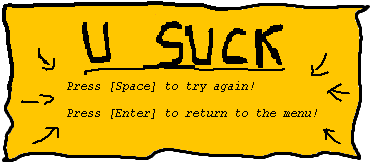
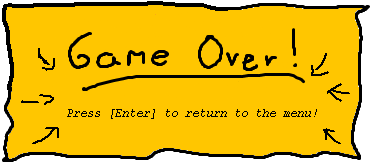
Der Spieler hat nun eine Anzahl Leben. Tod bei 0 Leben = Gameover

Changed region(s): [[0.1774, 0.1212, 0.828, 0.5758]]

diff --git a/src/hhu/propra2013/gruppe55/Data_Img.java b/src/hhu/propra2013/gruppe55/Data_Img.java
@@ -32,8 +32,8 @@ public class Data_Img {
 	public static Image storyteller = genImg("Npc/storyteller.png");
 	// Levelrelevantes
 	static Image win = genImg("youwin.png");		// Siegbild
-	static Image gameover = genImg("gameover.png");	// Game Over
-	static Image bks = genImg("bks.png");			// Hintergrund
+	static Image gameover = genImg("youlose.png");	// Todesbild
+	static Image gameover2 = genImg("gameover.png"); // Gameover!
 	// Umgebung des Levels
 	public static Image wall = genImg("wall.png");			// Wand
 	static Image grass = genImg("grass.png");		//Grass
